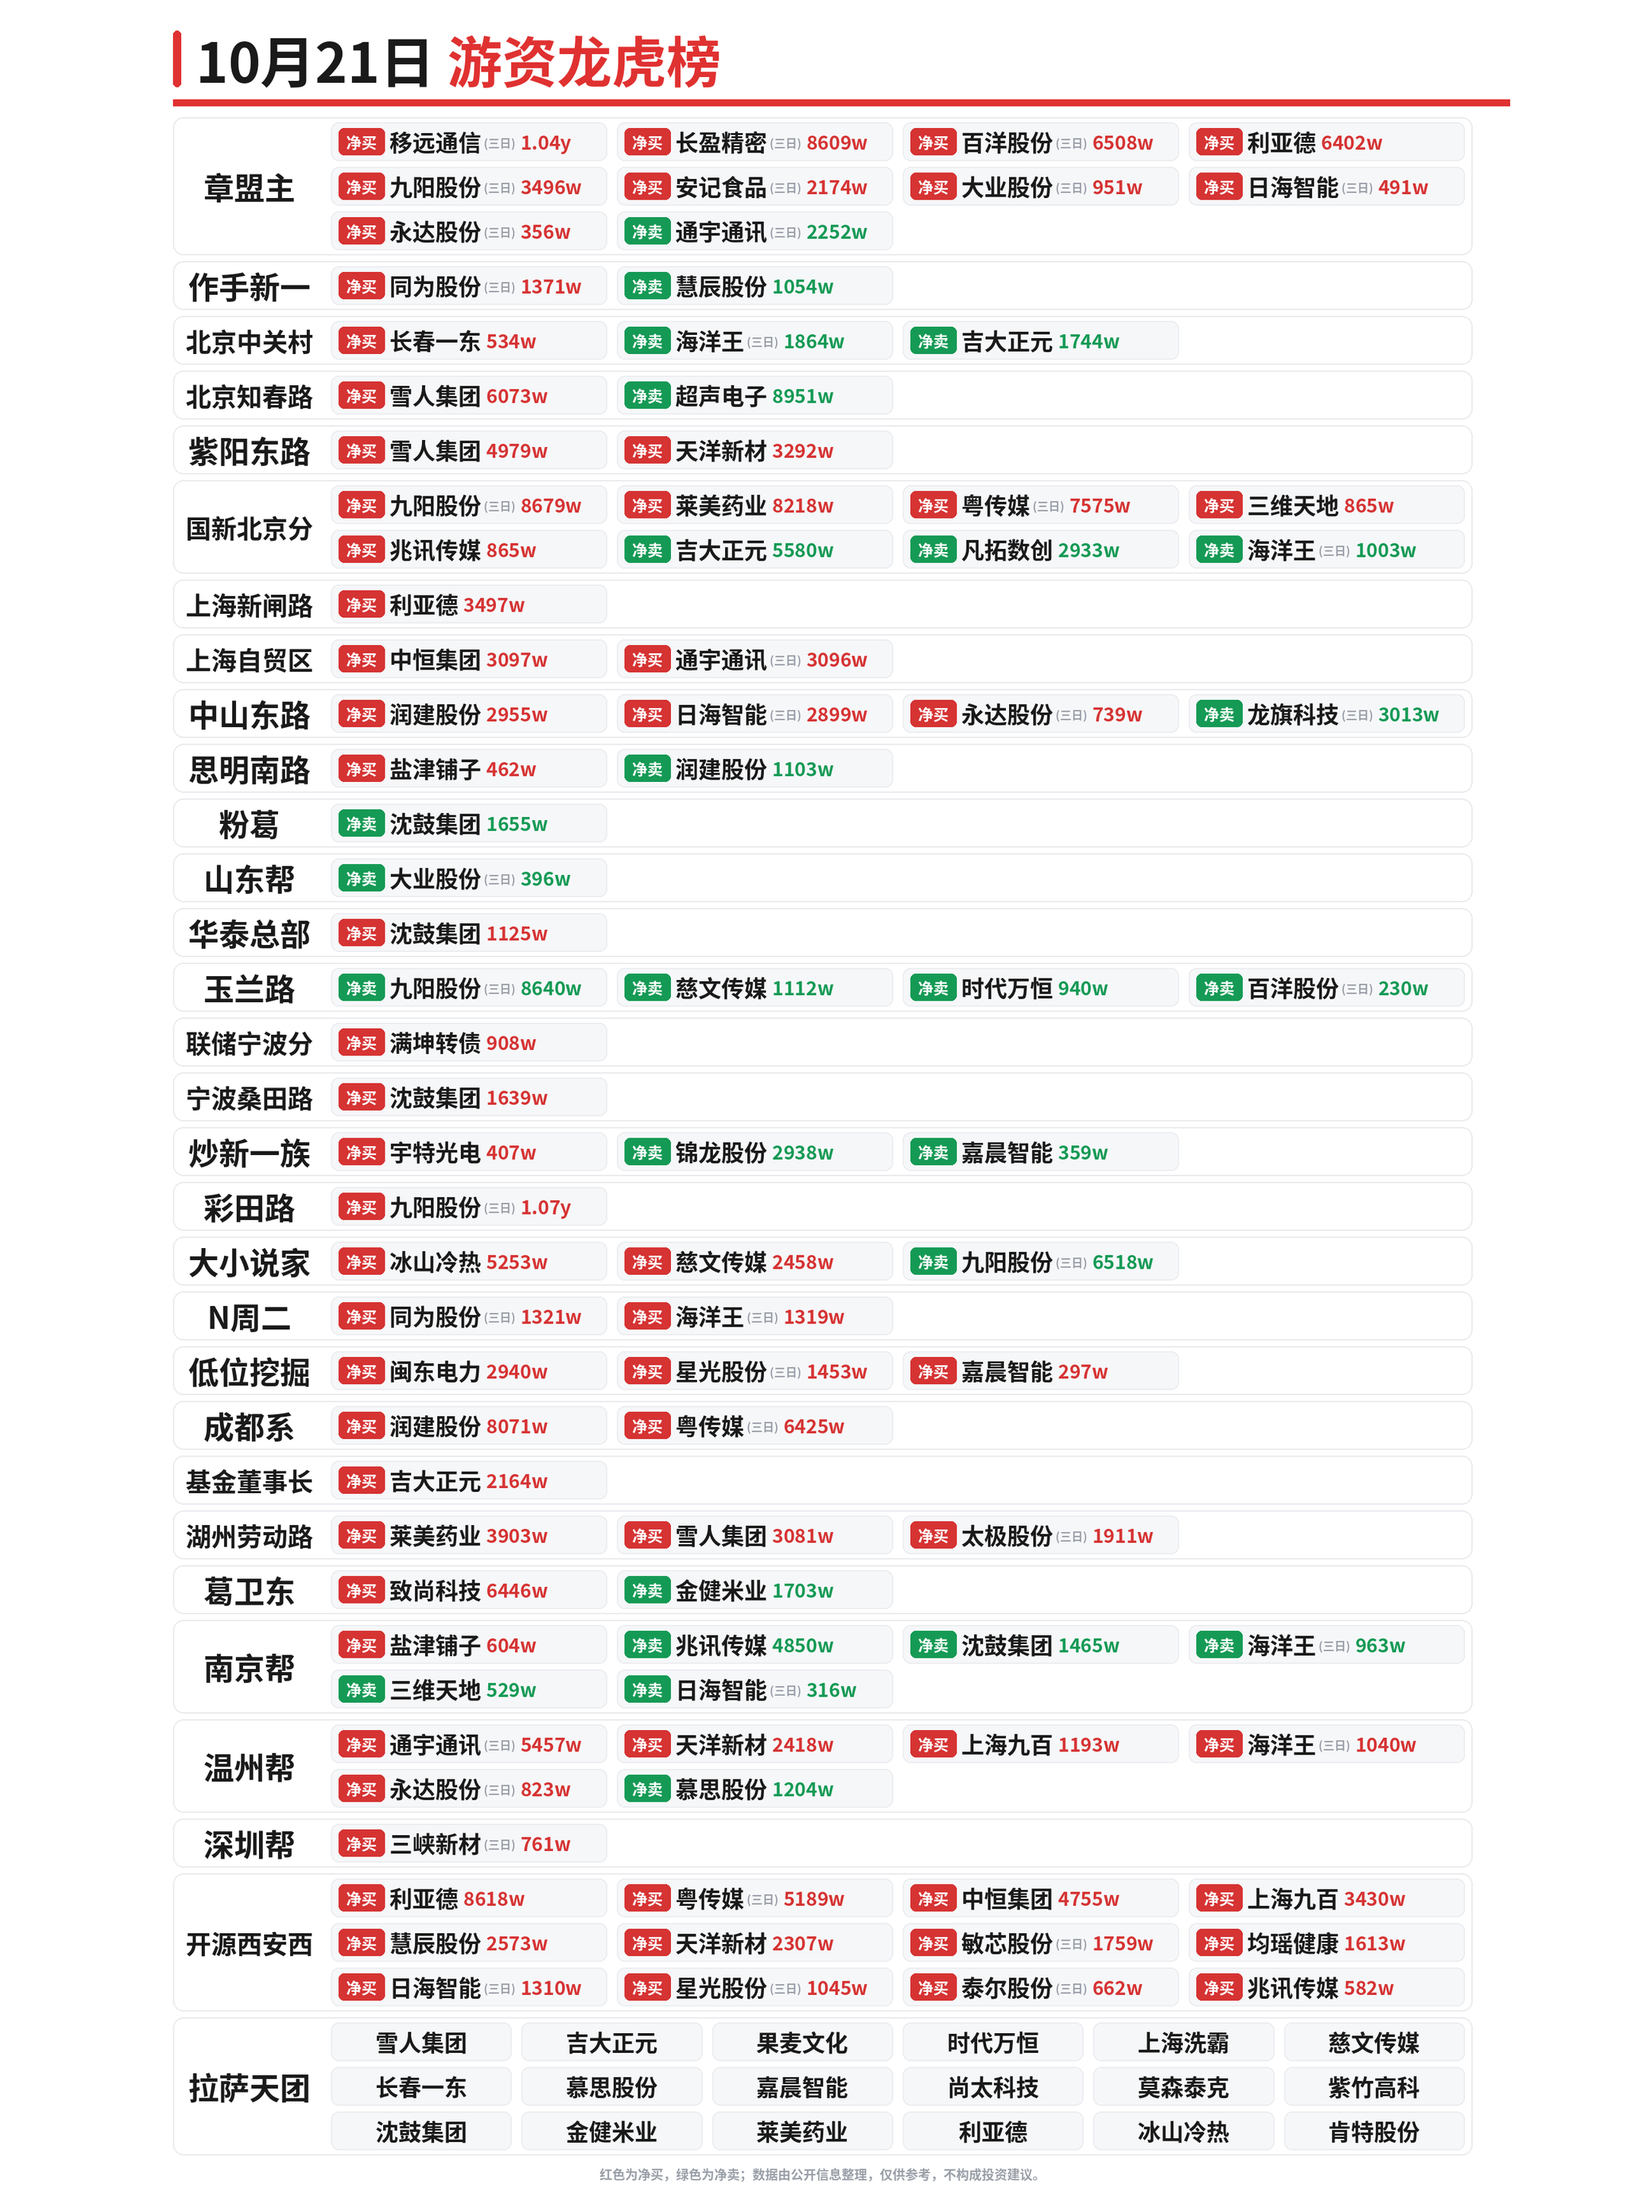
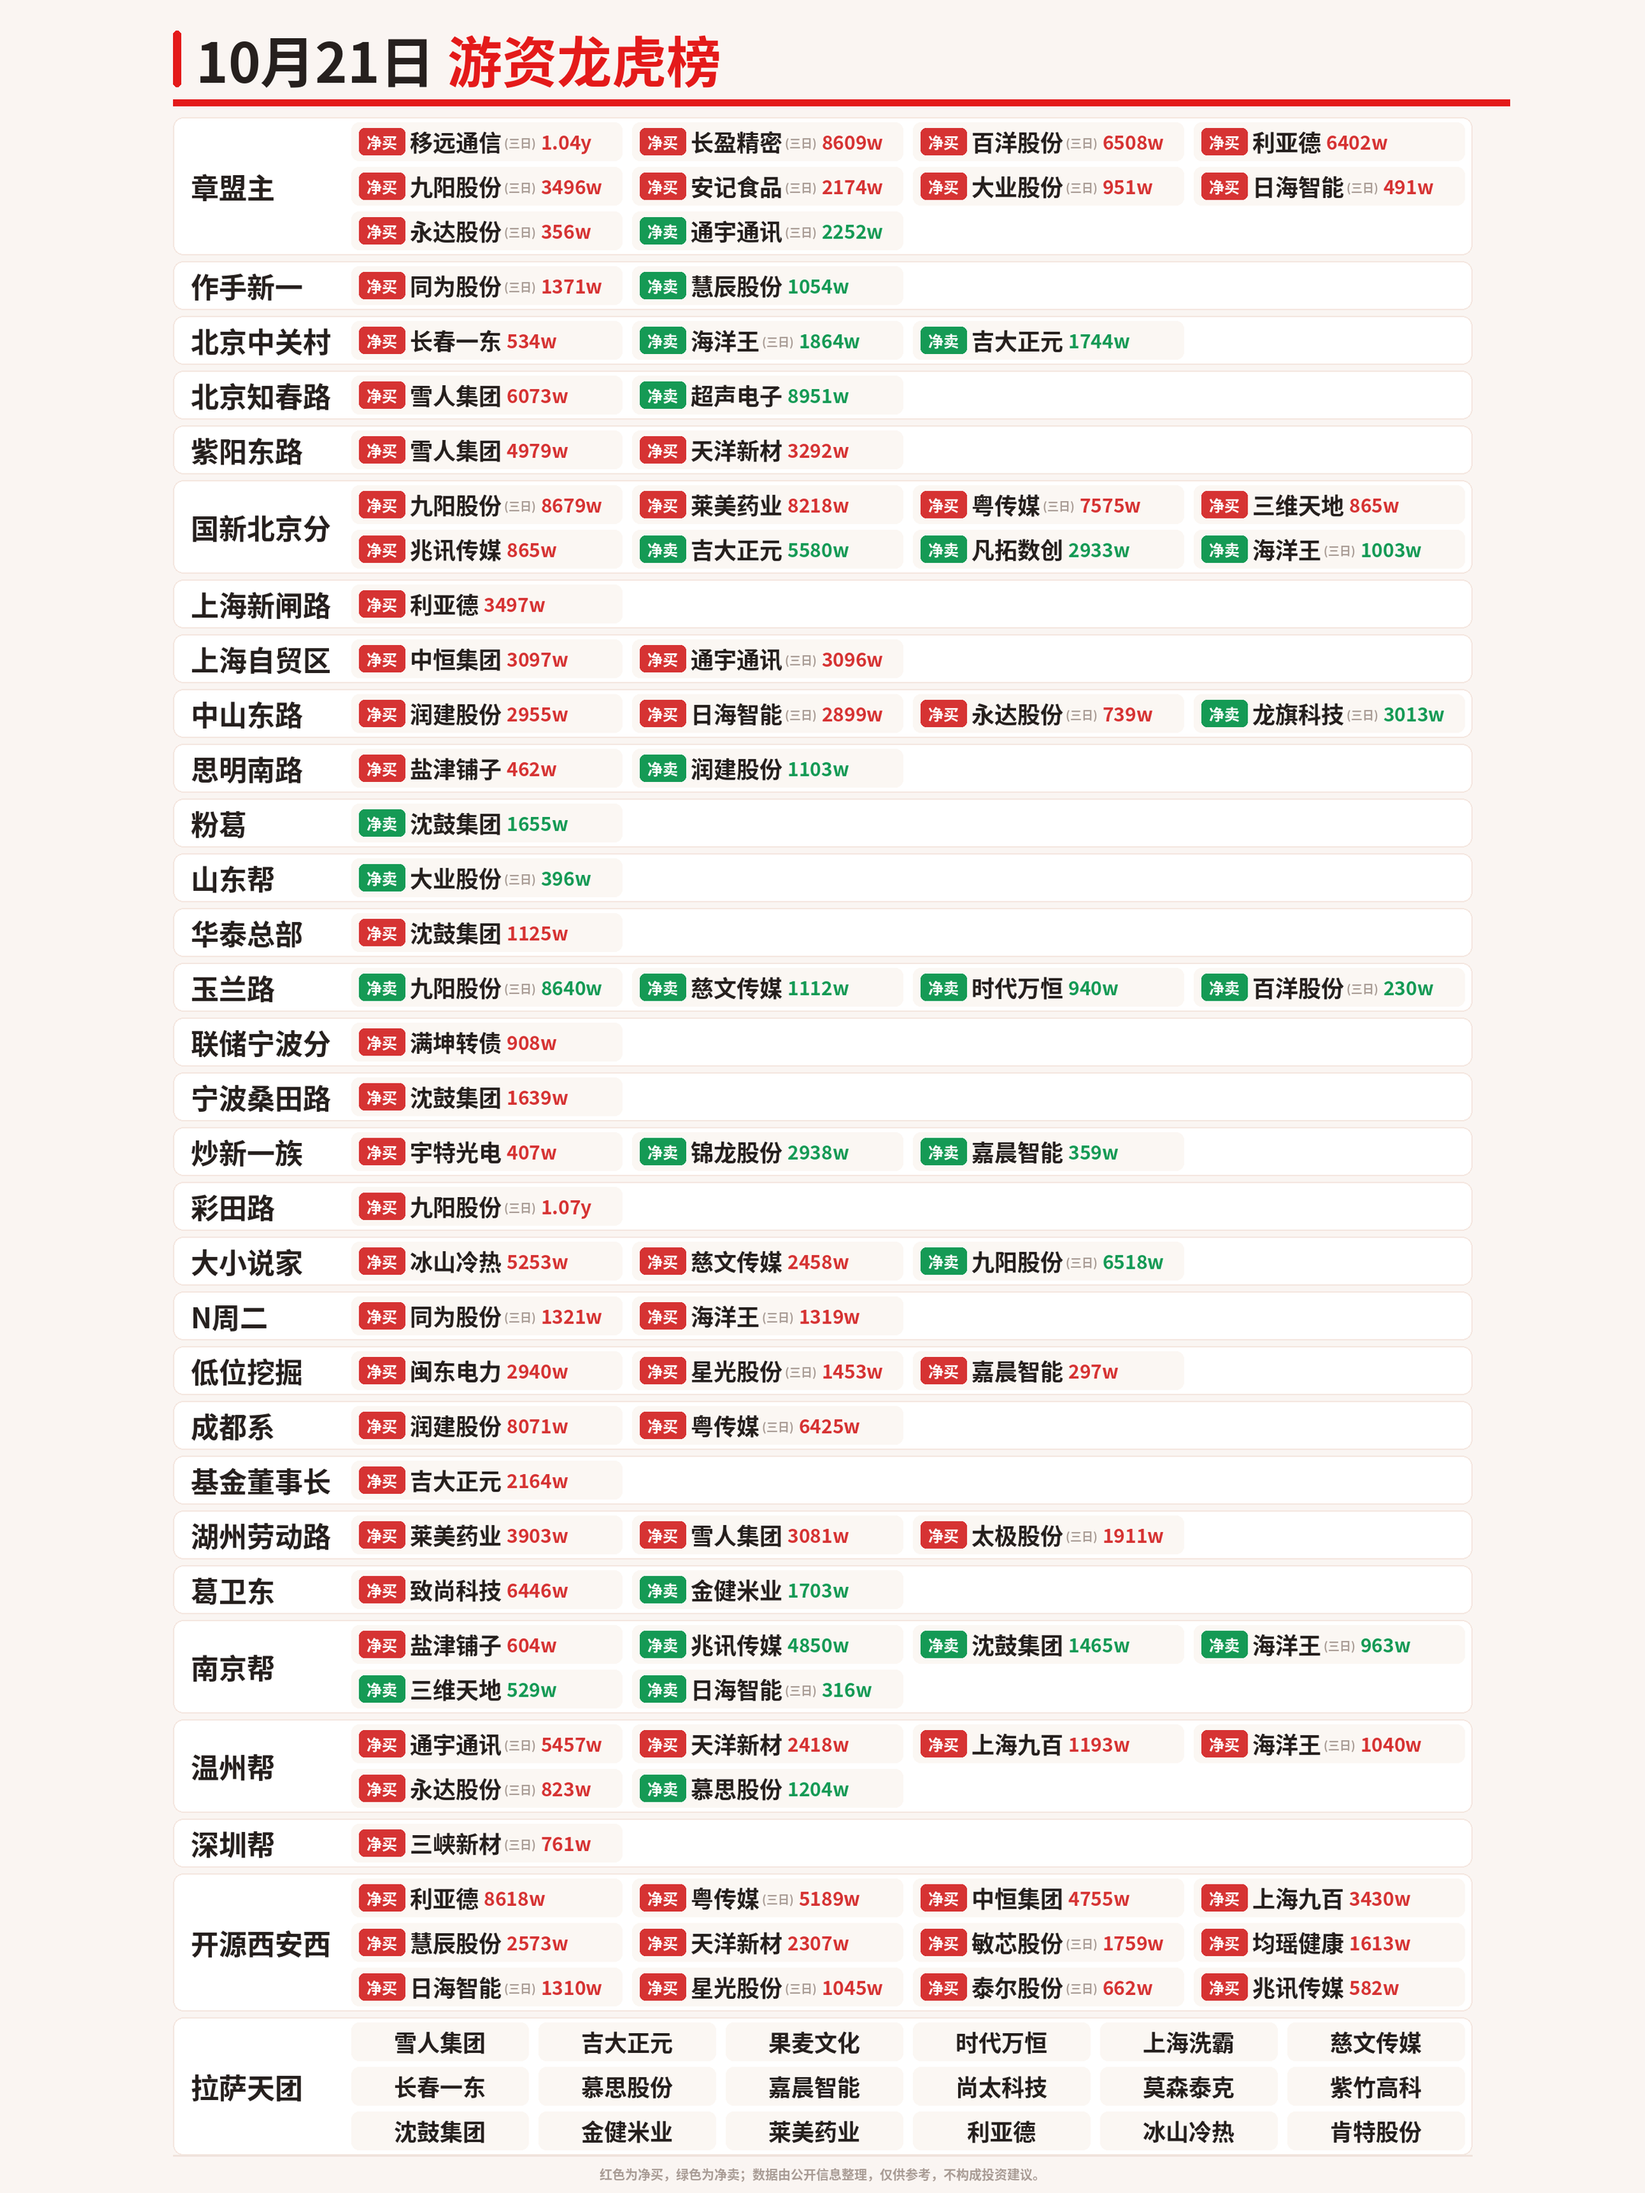
feat: update workspace

diff --git a/龙虎榜/src/lhb_ladder.py b/龙虎榜/src/lhb_ladder.py
@@ -12,7 +12,7 @@ from lhb_render import _font, _hex, _fit_canvas
 K = 2                      # 2 倍高清
 W = 1080 * K
 M = 30 * K                 # 左右页边距
-SEAT_W = 108 * K           # 席位名列宽
+SEAT_W = 124 * K           # 席位名列宽（按 5 字名称为准整体放大）
 SEAT_H = 32 * K
 SEAT_GAP = 10 * K
 CARD_PAD_X = 6 * K
@@ -24,13 +24,14 @@ CELL_GAP = 8 * K
 LINE_GAP = 5 * K
 ROW_GAP = 5 * K
 
-C_RED = "#E03131"
-C_GREEN = "#159A55"
-C_CELL = "#F6F7F9"
-C_CELL_LINE = "#ECEDF0"
-C_ROW_LINE = "#E9EAED"
-C_INK = "#1A1A1A"
-C_GRAY = "#9A9FA8"
+C_RED = "#E41A1A"
+C_GREEN = "#169668"
+C_PAGE = "#FAF5F2"
+C_CELL = "#FBF7F3"
+C_ROW_LINE = "#F4E6DF"
+C_INK = "#26201E"
+C_GRAY = "#A99C95"
+C_FOOT_LINE = "#EFE3DC"
 
 
 def _chunks(items, n):
@@ -46,20 +47,27 @@ def _row_lines(row, style):
     return _chunks(row["items"][:limit * COLS], COLS)
 
 
-def _seat_name(d, x, y, label, style):
-    """席位名：不设底色，字号按列宽自适应到最大。"""
+def _seat_size(labels, style, d):
+    """以最长的 5 字席位名为统一标准，所有席位名用同一字号。"""
     size = 24 * K
-    f = _font(style["font_bold"], size)
-    while d.textlength(label, font=f) > SEAT_W - 8 * K and size > 12 * K:
-        size -= 1
+    avail = SEAT_W - 12 * K
+    while size > 12 * K:
         f = _font(style["font_bold"], size)
-    d.text((x + SEAT_W / 2, y + SEAT_H / 2), label, font=f,
-           fill=_hex(C_INK), anchor="mm")
+        if all(d.textlength(t, font=f) <= avail for t in labels):
+            return size
+        size -= 1
+    return 12 * K
+
+
+def _seat_name(d, x, y, label, size, style):
+    """席位名：左对齐，字号统一。"""
+    d.text((x + 8 * K, y + SEAT_H / 2), label,
+           font=_font(style["font_bold"], size),
+           fill=_hex(C_INK), anchor="lm")
 
 
 def _draw_cell(d, x, y, w, h, item, kind, style, c_up, c_down):
-    d.rounded_rectangle([x, y, x + w, y + h], radius=6 * K,
-                        fill=_hex(C_CELL), outline=_hex(C_CELL_LINE), width=1 * K)
+    d.rounded_rectangle([x, y, x + w, y + h], radius=6 * K, fill=_hex(C_CELL))
     cy = y + h / 2.0
     if kind == "names":
         size = 18 * K
@@ -102,12 +110,12 @@ def _draw_cell(d, x, y, w, h, item, kind, style, c_up, c_down):
     d.text((x0, cy), amt, font=f_amt, fill=col, anchor="lm")
 
 
-def _draw_row(d, yy, row, lines, style, c_up, c_down):
+def _draw_row(d, yy, row, lines, style, c_up, c_down, seat_size):
     n = max(1, len(lines))
     h = CARD_PAD_Y * 2 + n * CELL_H + (n - 1) * LINE_GAP
     d.rounded_rectangle([M, yy, W - M, yy + h], radius=8 * K,
                         fill=(255, 255, 255), outline=_hex(C_ROW_LINE), width=1 * K)
-    _seat_name(d, M + CARD_PAD_X, yy + (h - SEAT_H) / 2, row["label"], style)
+    _seat_name(d, M + CARD_PAD_X, yy + (h - SEAT_H) / 2, row["label"], seat_size, style)
 
     x0 = M + CARD_PAD_X + SEAT_W + SEAT_GAP
     area = (W - M - CARD_PAD_X) - x0
@@ -182,15 +190,18 @@ def render_png(board, style, out_path):
     top = 92 * K
     H = int(top + body_h + 30 * K)
 
-    img = Image.new("RGB", (W, H), (255, 255, 255))
+    img = Image.new("RGB", (W, H), _hex(C_PAGE))
     d = ImageDraw.Draw(img)
     _draw_header(d, board, style)
+    seat_size = _seat_size([r["label"] for r in board["rows"]], style, d)
 
     yy = top
     for row, lines, h in rows:
-        _draw_row(d, yy, row, lines, style, c_up, c_down)
+        _draw_row(d, yy, row, lines, style, c_up, c_down, seat_size)
         yy += h + ROW_GAP
 
+    # 页脚分隔线 + 说明文字
+    d.rectangle([M, H - 30 * K, W - M, H - 30 * K + 1 * K], fill=_hex(C_FOOT_LINE))
     f_foot = _font(style["font_bold"], 10 * K)
     d.text((W / 2, H - 15 * K),
            "红色为净买，绿色为净卖；数据由公开信息整理，仅供参考，不构成投资建议。",
@@ -198,7 +209,7 @@ def render_png(board, style, out_path):
 
     st = dict(style)
     st["fit"] = {"enabled": True, "w": W, "h": W * 4 // 3,
-                 "pad": 0, "max_scale": 1, "bg": "#FFFFFF"}
+                 "pad": 0, "max_scale": 1, "bg": C_PAGE}
     img = _fit_canvas(img, st)
     img.save(out_path, "PNG")
     return out_path, img.width, img.height

diff --git a/龙虎榜/src/lhb_main.py b/龙虎榜/src/lhb_main.py
@@ -54,10 +54,9 @@ def main():
     ladder["show_market"] = False
     styles.append(("_天梯", ladder))
 
-    # 最终版：天梯版式 + 右上角图例 + 居中主标题（3:4 高清）
+    # 最终版：天梯版式 + 居中主标题（3:4 高清）
     final = dict(ladder)
     final["center_title"] = True
-    final["show_legend"] = True
     styles.append(("_最终版", final))
 
     latest = lhb_fetch.resolve_trade_date()
